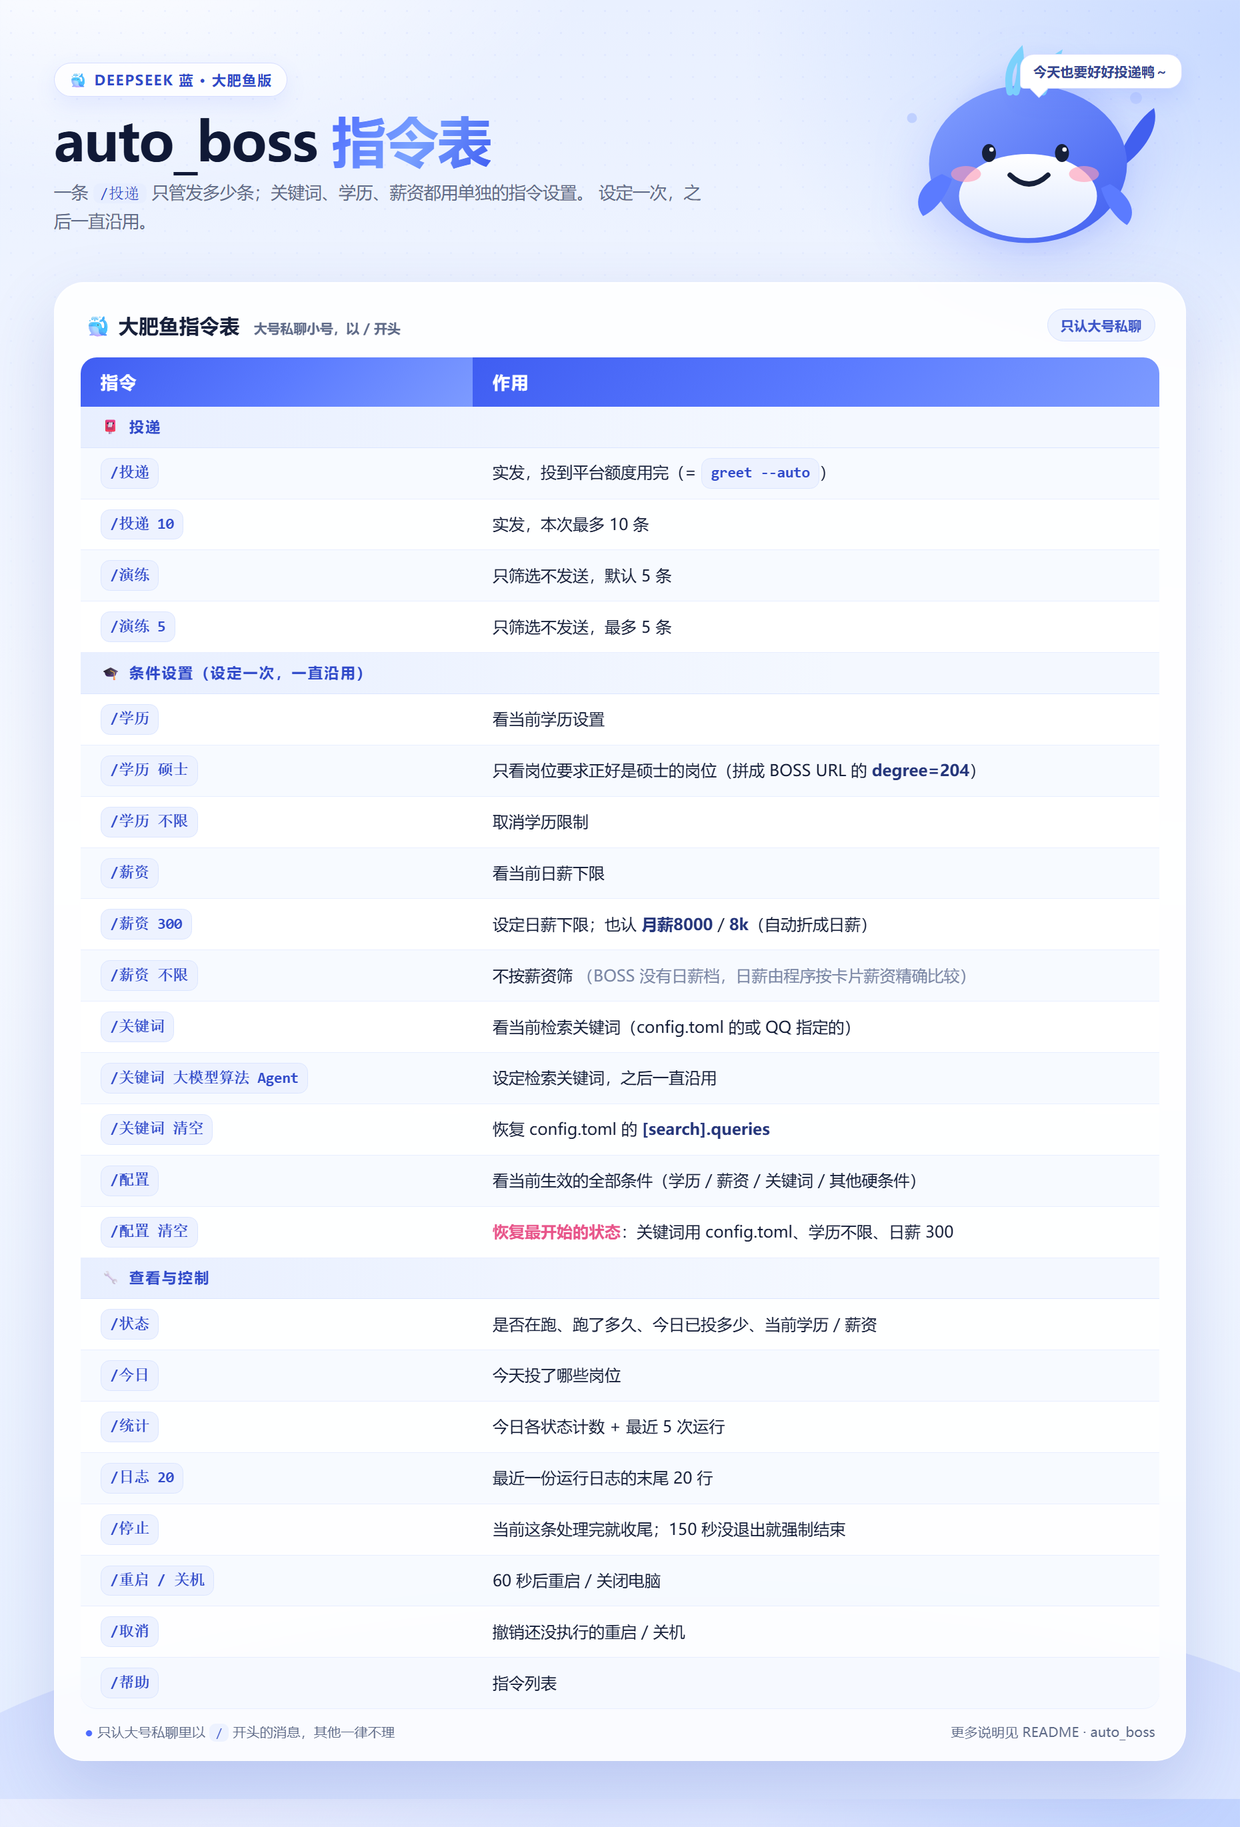
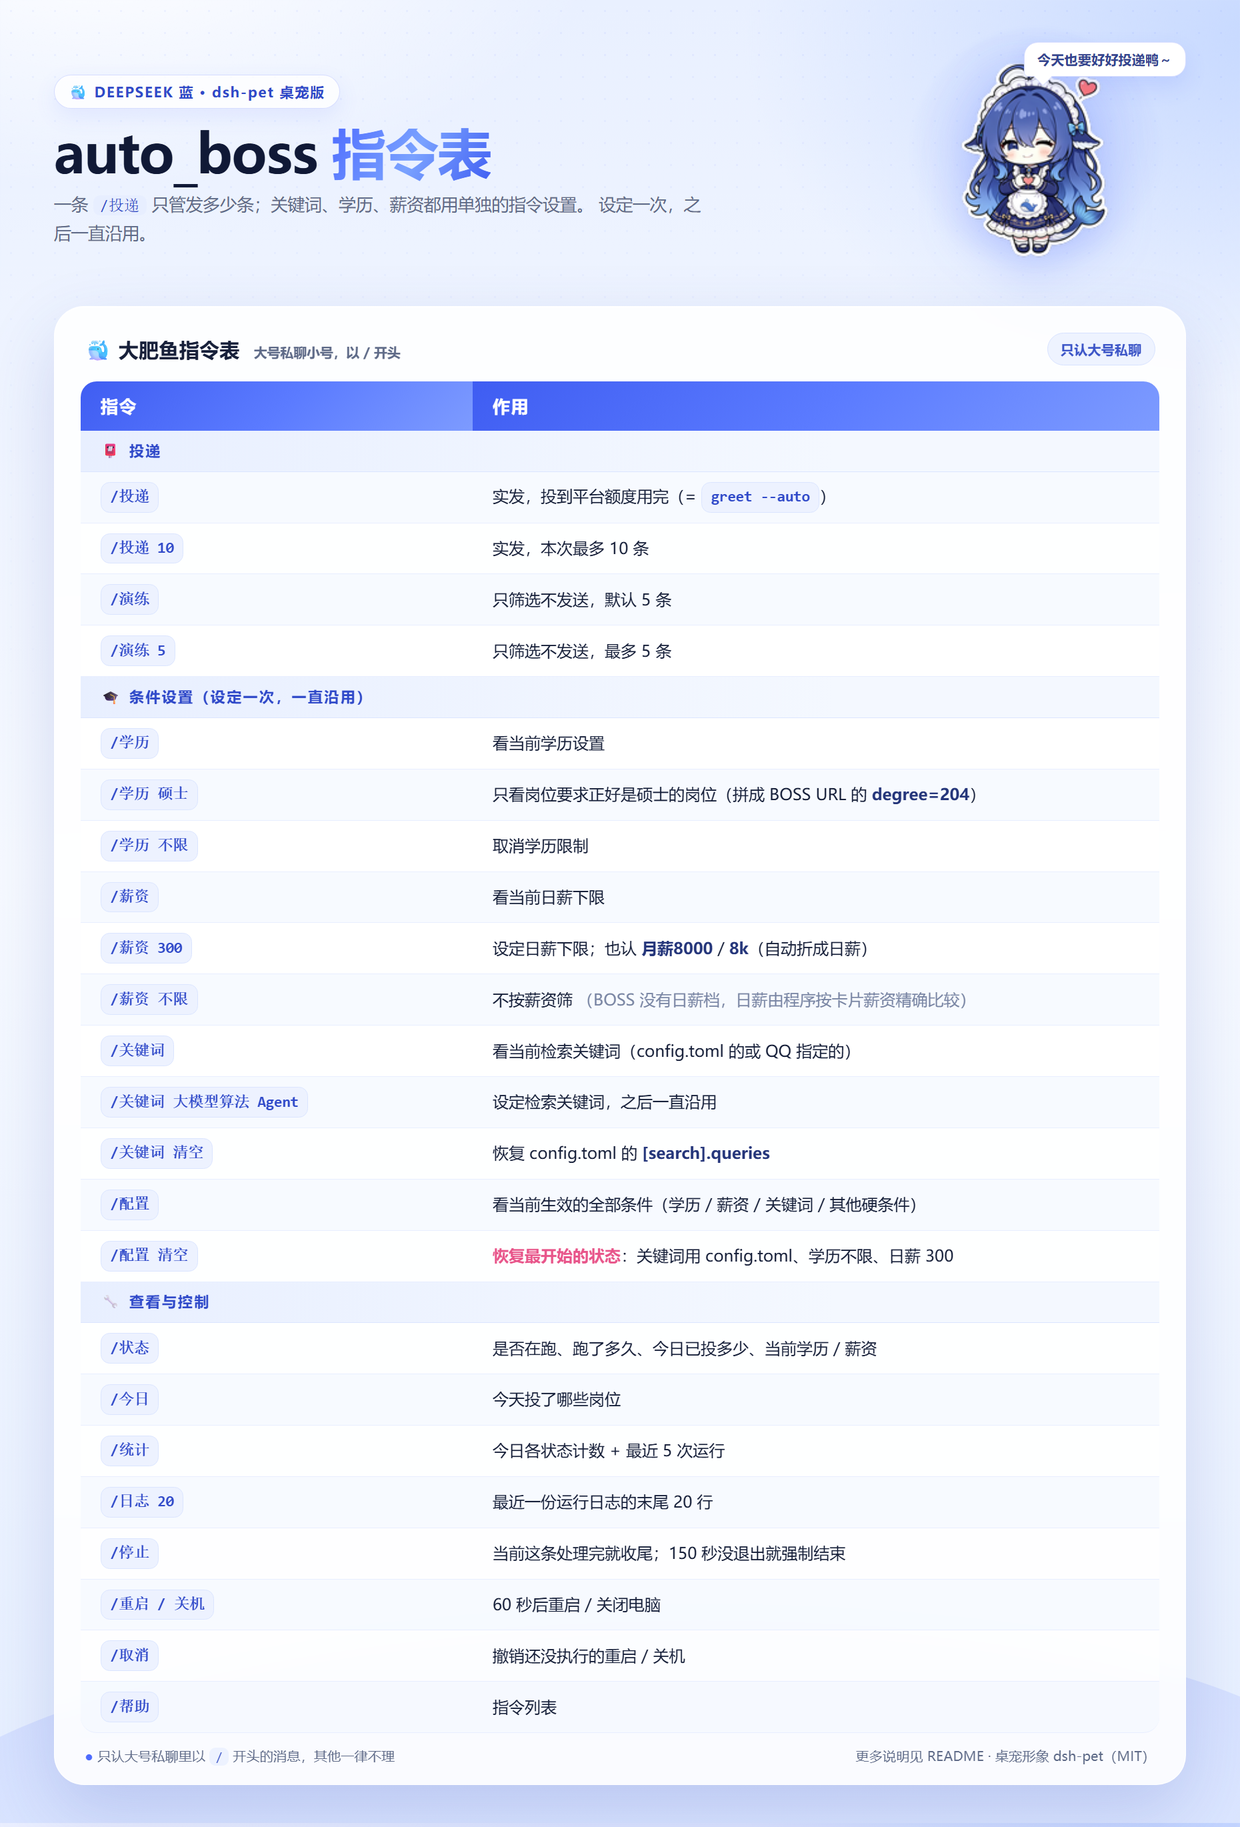
指令表桌宠形象换成 dsh-pet，README 注明 MIT 来源

Changed region(s): [[0.0306, 0.0, 0.95, 0.9984], [0.2452, 0.3432, 0.3065, 0.4056]]

diff --git a/docs/commands.html b/docs/commands.html
@@ -107,22 +107,32 @@
     width: 300px;
     flex: 0 0 300px;
     display: flex;
-    align-items: center;
+    align-items: flex-end;
     justify-content: center;
-    height: 214px;
+    height: 238px;
   }
-  .mascot svg {
-    width: 300px;
-    height: 214px;
+  .mascot::before {
+    content: "";
+    position: absolute;
+    width: 252px;
+    height: 252px;
+    border-radius: 50%;
+    background: radial-gradient(circle at 50% 46%, rgba(77,107,254,.22), rgba(77,107,254,0) 70%);
+    filter: blur(2px);
+  }
+  .mascot img.pet {
+    width: 242px;
+    height: auto;
     position: relative;
     z-index: 1;
-    filter: drop-shadow(0 18px 26px rgba(77,107,254,.22));
+    margin-top: 18px;
+    filter: drop-shadow(0 16px 22px rgba(77,107,254,.25));
   }
   .bubble {
     position: absolute;
-    top: 12px;
-    right: 4px;
-    z-index: 2;
+    top: 0;
+    right: 0;
+    z-index: 3;
     padding: 8px 13px;
     border-radius: 14px 14px 14px 4px;
     background: #fff;
@@ -267,7 +277,7 @@
 <body>
   <div class="hero">
     <div class="hero-text">
-      <div class="kicker">🐳 DEEPSEEK 蓝 · 大肥鱼版</div>
+      <div class="kicker">🐳 DEEPSEEK 蓝 · dsh-pet 桌宠版</div>
       <h1>auto_boss <span>指令表</span></h1>
       <p class="subtitle">
         一条 <code>/投递</code> 只管发多少条；关键词、学历、薪资都用单独的指令设置。
@@ -277,56 +287,7 @@
 
     <div class="mascot">
       <div class="bubble">今天也要好好投递鸭～</div>
-      <svg viewBox="0 0 300 214" aria-hidden="true">
-        <defs>
-          <linearGradient id="whaleBody" x1="0" y1="0" x2="1" y2="1">
-            <stop offset="0" stop-color="#83a0ff"/>
-            <stop offset="1" stop-color="#405ef0"/>
-          </linearGradient>
-          <linearGradient id="whaleBelly" x1="0" y1="0" x2="0" y2="1">
-            <stop offset="0" stop-color="#ffffff"/>
-            <stop offset="1" stop-color="#dbe6ff"/>
-          </linearGradient>
-          <radialGradient id="whaleGlow" cx="50%" cy="50%" r="50%">
-            <stop offset="0" stop-color="#4d6bfe" stop-opacity=".30"/>
-            <stop offset="1" stop-color="#4d6bfe" stop-opacity="0"/>
-          </radialGradient>
-        </defs>
-
-        <circle cx="150" cy="116" r="102" fill="url(#whaleGlow)"/>
-
-        <!-- 尾巴 -->
-        <path d="M226 132 C258 112 274 86 268 66 C254 76 244 92 236 108
-                 C231 86 218 69 203 60 C207 84 214 106 226 124 Z" fill="#415fef"/>
-        <!-- 身体（圆滚滚的大肥鱼） -->
-        <ellipse cx="142" cy="122" rx="99" ry="79" fill="url(#whaleBody)"/>
-        <!-- 肚皮 -->
-        <ellipse cx="142" cy="154" rx="69" ry="42" fill="url(#whaleBelly)"/>
-        <!-- 左鳍 -->
-        <path d="M56 132 C34 141 26 160 37 174 C50 168 61 153 66 137 Z" fill="#5b7bff"/>
-        <!-- 右鳍 -->
-        <path d="M224 142 C244 153 252 171 241 183 C228 175 219 160 215 146 Z" fill="#5b7bff"/>
-        <!-- 水花 -->
-        <path d="M124 50 C120 31 126 20 134 11 C136 26 134 38 130 50"
-              fill="none" stroke="#7dd3fc" stroke-width="7" stroke-linecap="round"/>
-        <path d="M151 48 C155 29 163 20 171 15 C167 30 161 41 157 50"
-              fill="none" stroke="#7dd3fc" stroke-width="7" stroke-linecap="round"/>
-        <!-- 眼睛 -->
-        <ellipse cx="103" cy="111" rx="7" ry="9" fill="#16203a"/>
-        <ellipse cx="176" cy="111" rx="7" ry="9" fill="#16203a"/>
-        <circle cx="105.5" cy="107.5" r="2.2" fill="#ffffff"/>
-        <circle cx="178.5" cy="107.5" r="2.2" fill="#ffffff"/>
-        <!-- 腮红 -->
-        <ellipse cx="80" cy="132" rx="15" ry="8" fill="#ff9db6" opacity=".62"/>
-        <ellipse cx="198" cy="132" rx="15" ry="8" fill="#ff9db6" opacity=".62"/>
-        <!-- 笑嘴 -->
-        <path d="M124 133 Q143 151 162 133" fill="none"
-              stroke="#16203a" stroke-width="5" stroke-linecap="round"/>
-        <!-- 气泡 -->
-        <circle cx="250" cy="56" r="6" fill="#bfd0ff"/>
-        <circle cx="266" cy="35" r="4" fill="#d6e1ff"/>
-        <circle cx="26" cy="76" r="5" fill="#bfd0ff"/>
-      </svg>
+      <img class="pet" src="dsh-pet.png" alt="dsh-pet 桌宠">
     </div>
   </div>
 
@@ -450,7 +411,7 @@
 
     <div class="card-foot">
       <span><span class="fish-dot">●</span> 只认大号私聊里以 <code>/</code> 开头的消息，其他一律不理</span>
-      <span>更多说明见 README · auto_boss</span>
+      <span>更多说明见 README · 桌宠形象 dsh-pet（MIT）</span>
     </div>
   </div>
 </body>
